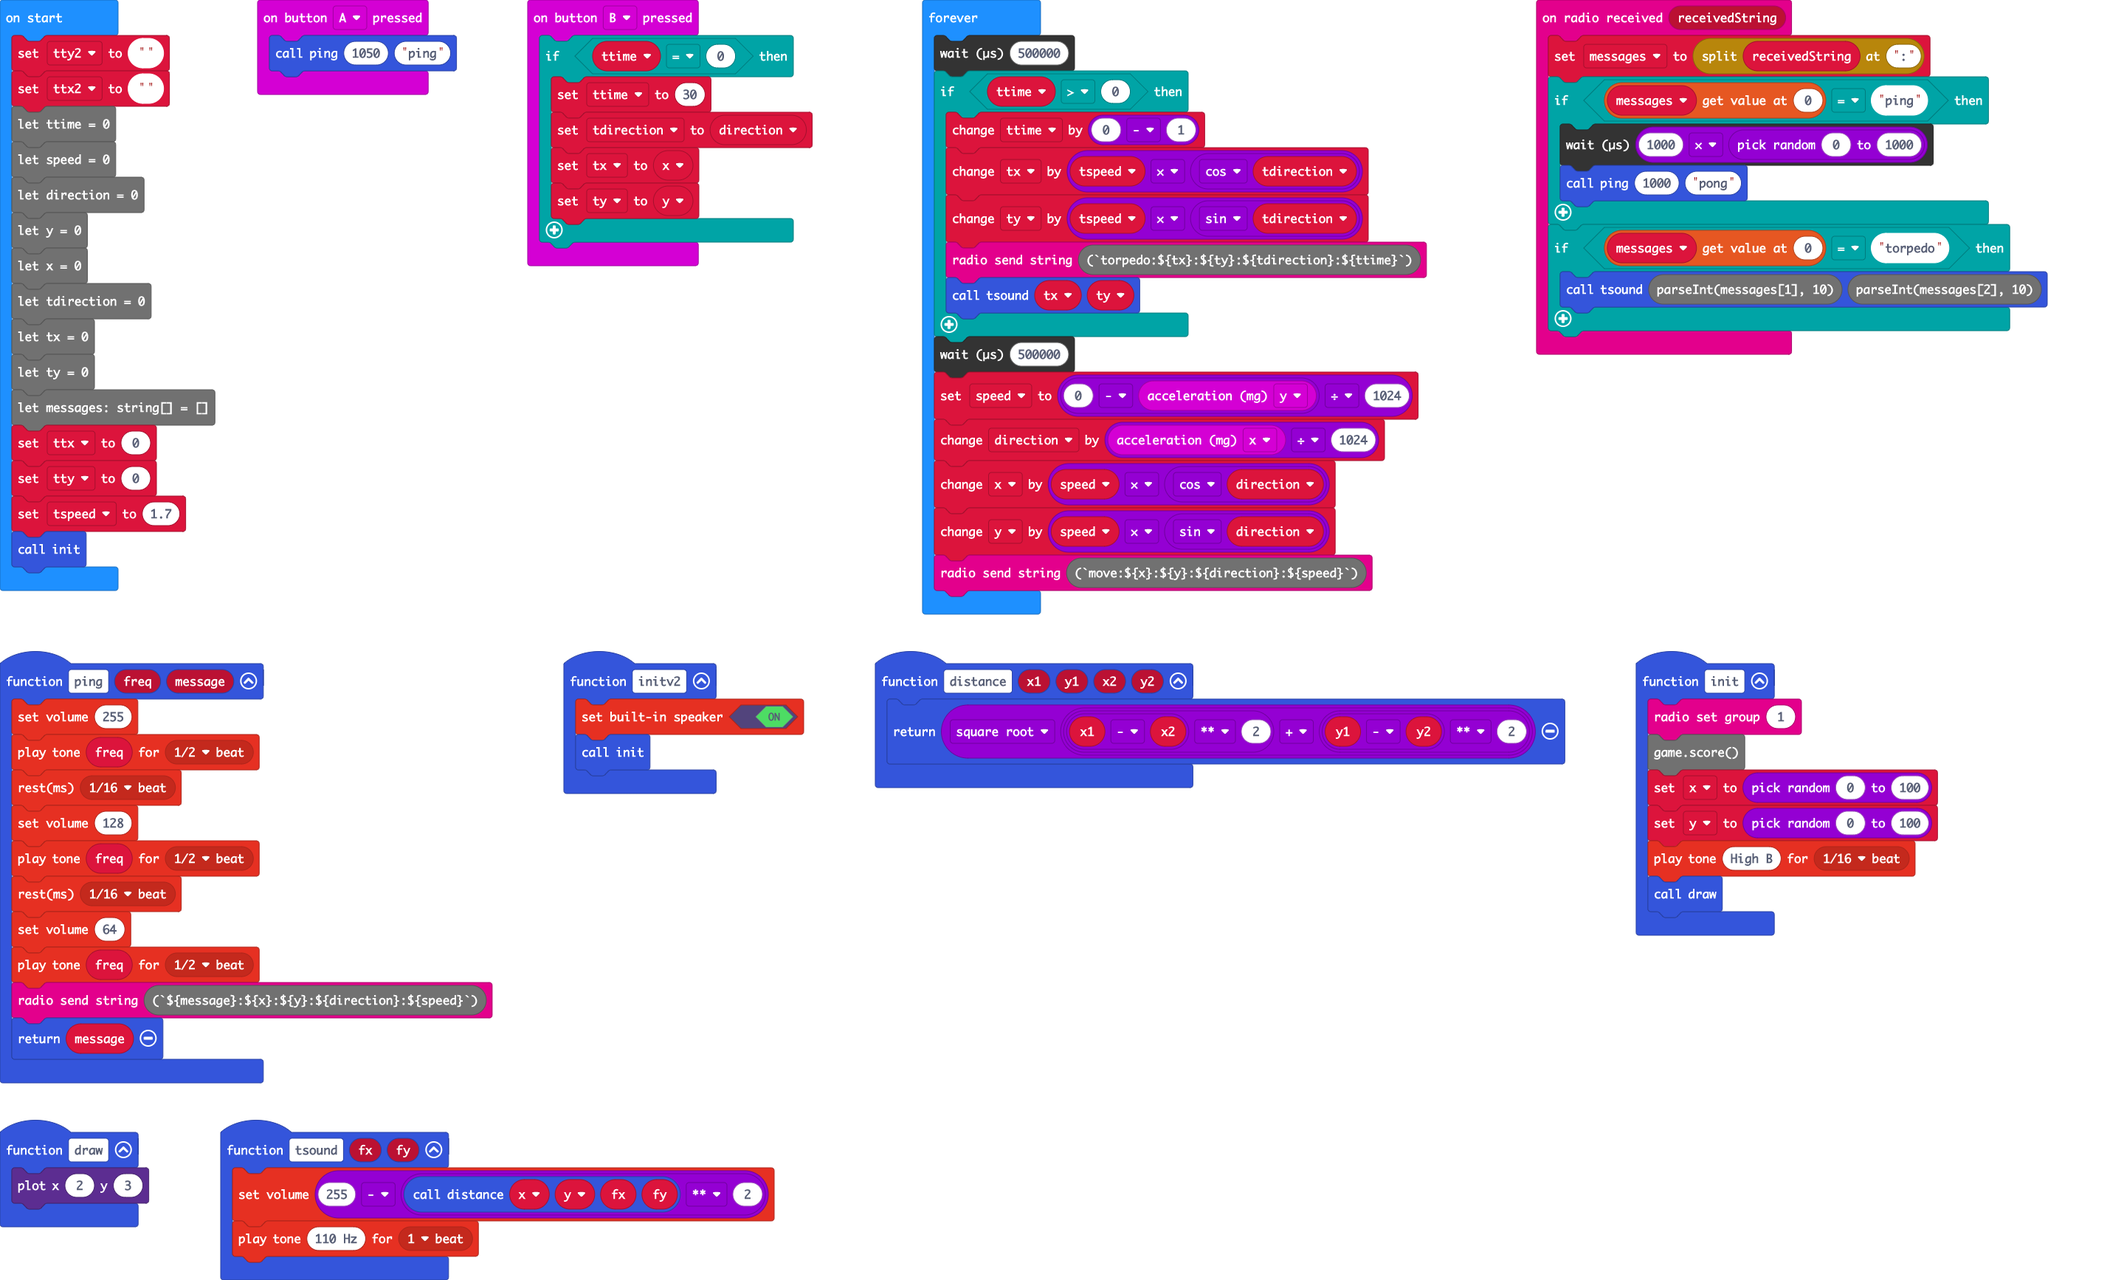
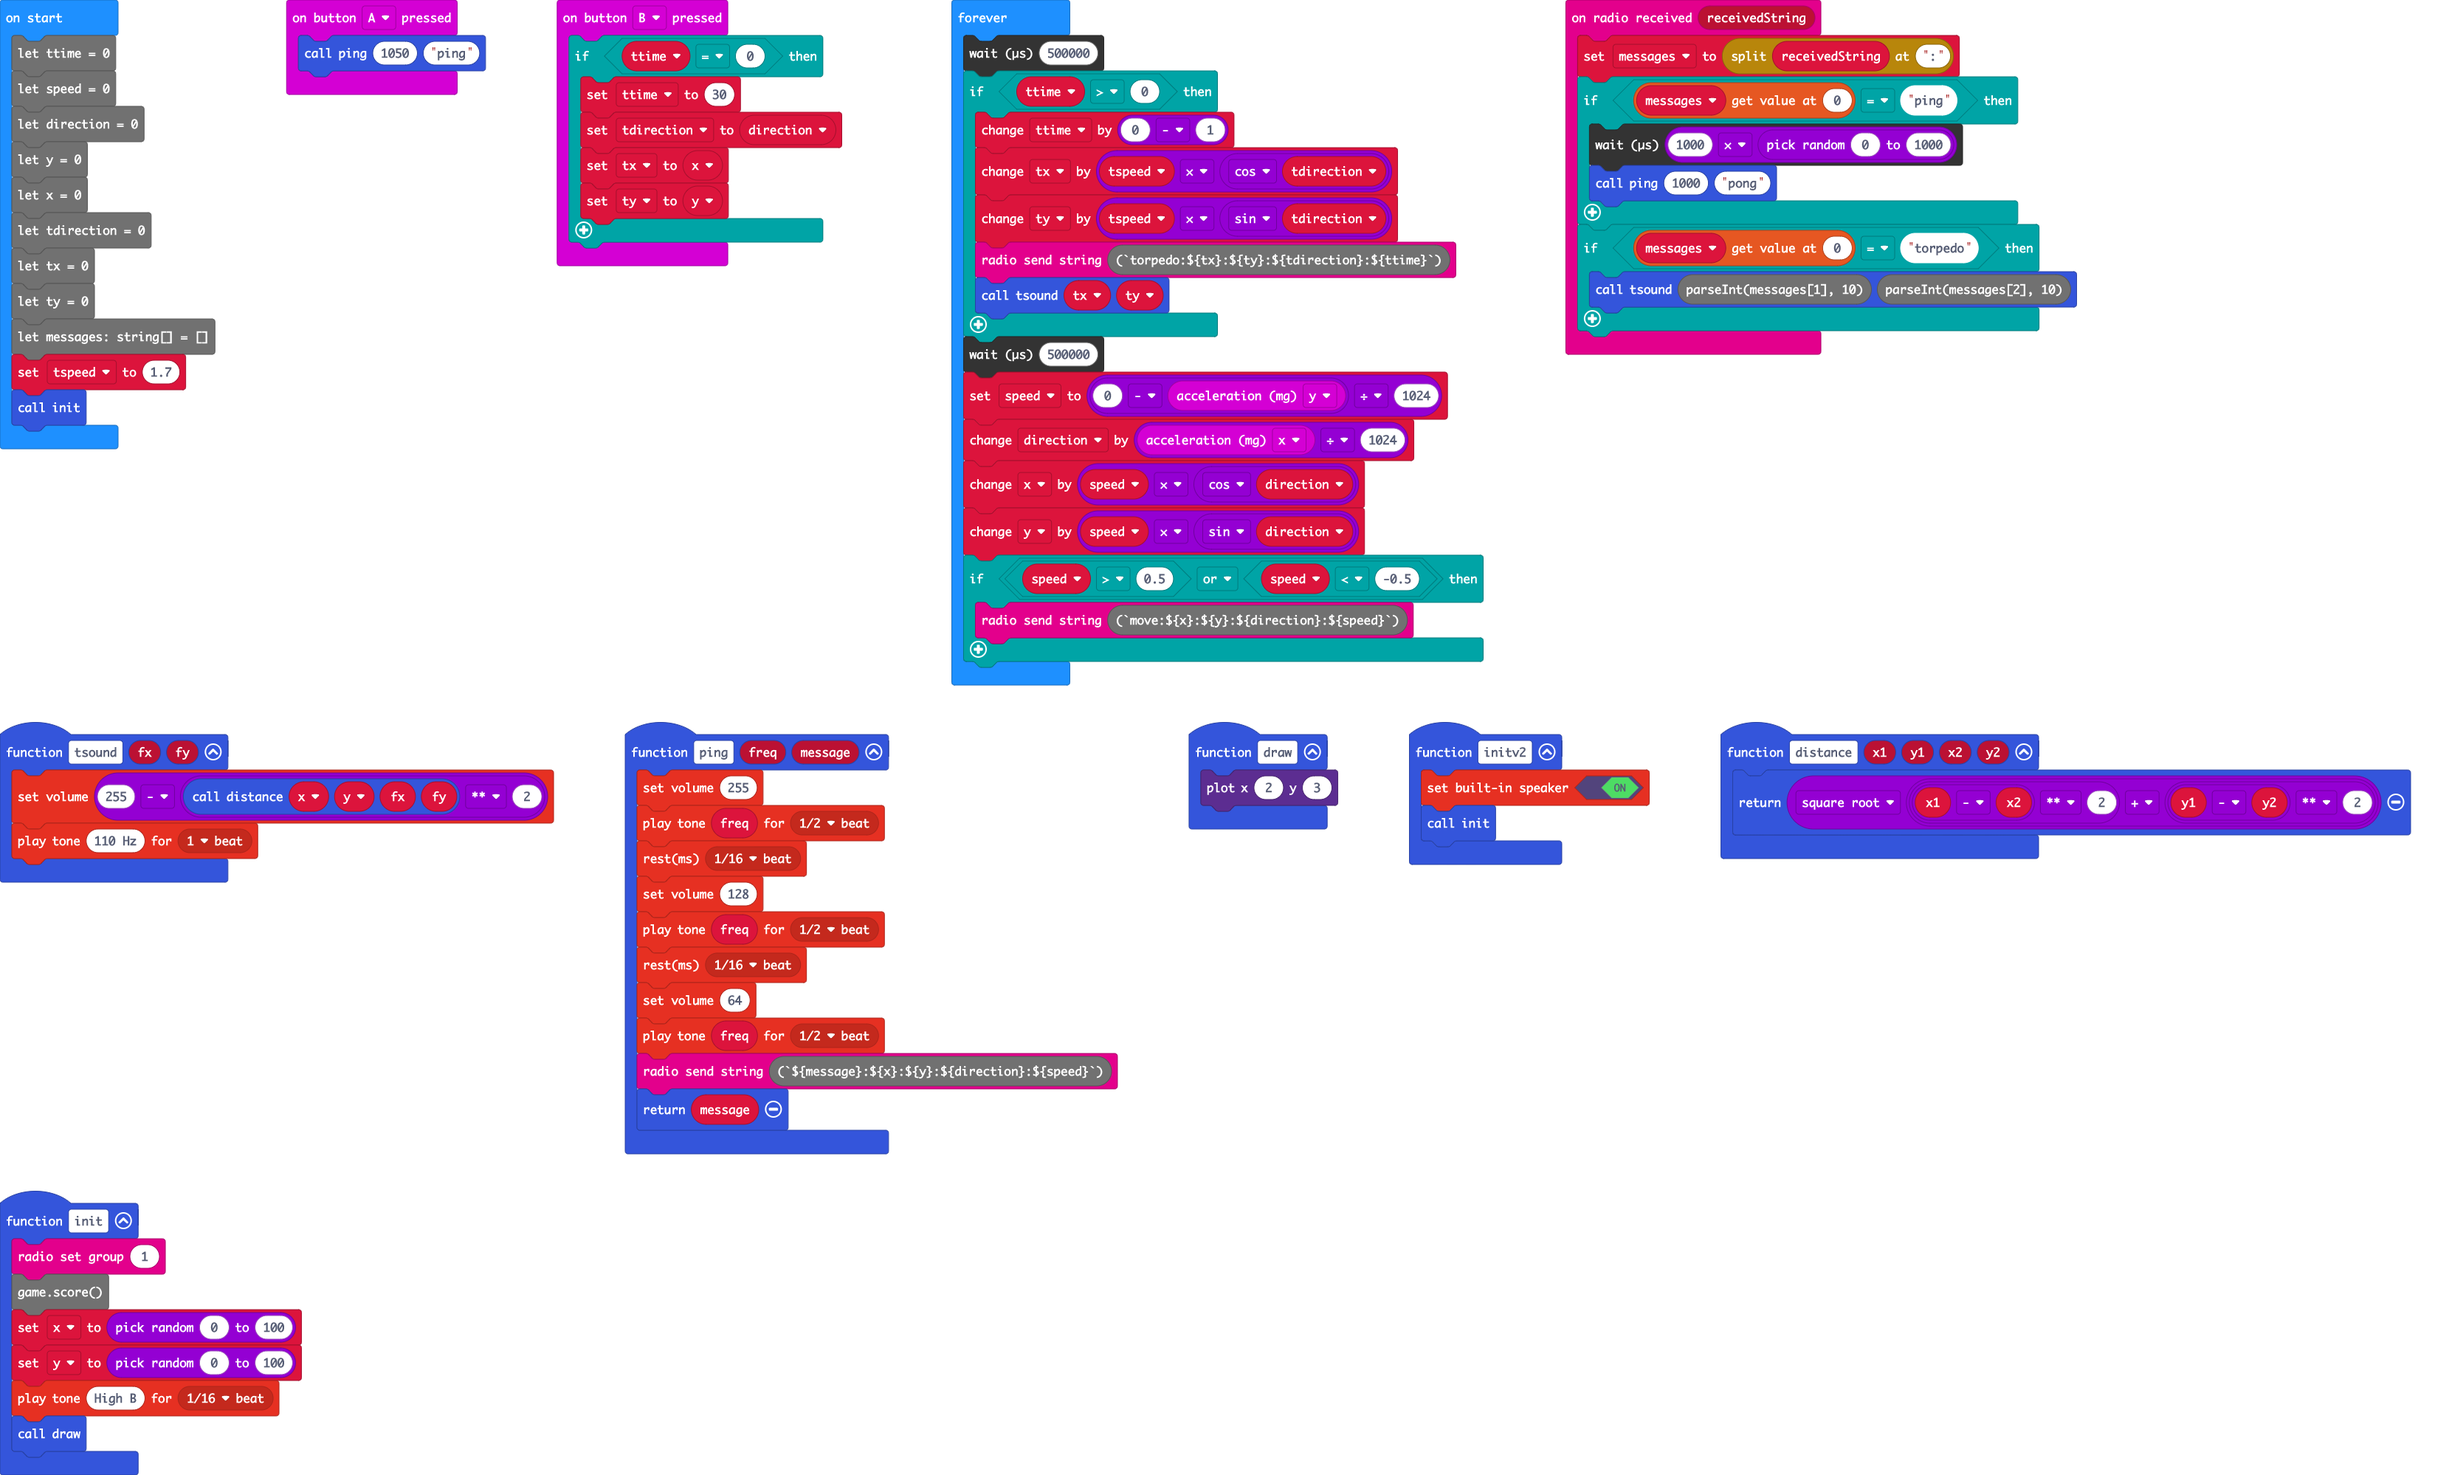
avoid sqrt and **2 in sequence

diff --git a/main.ts b/main.ts
@@ -1,5 +1,5 @@
 function tsound (fx: number, fy: number) {
-    music.setVolume(255 - distance(x, y, fx, fy) ** 2)
+    music.setVolume(255 - quieting(x, y, fx, fy))
     music.playTone(110, music.beat(BeatFraction.Whole))
 }
 function ping (freq: number, message: string) {
@@ -32,8 +32,8 @@ x = randint(0, 100)
     music.playTone(988, music.beat(BeatFraction.Sixteenth))
     draw()
 }
-function distance (x1: number, y1: number, x2: number, y2: number) {
-    return Math.sqrt((x1 - x2) ** 2 + (y1 - y2) ** 2)
+function quieting (x1: number, y1: number, x2: number, y2: number) {
+    return (x1 - x2) ** 2 + (y1 - y2) ** 2
 }
 radio.onReceivedString(function (receivedString) {
     messages = receivedString.split(":")
@@ -72,11 +72,15 @@ basic.forever(function () {
         ty += tspeed * Math.sin(tdirection)
         radio.sendString("" + (`torpedo:${tx}:${ty}:${tdirection}:${ttime}`))
         tsound(tx, ty)
+    } else {
+        control.waitMicros(200000)
     }
     control.waitMicros(500000)
     speed = (0 - input.acceleration(Dimension.Y)) / 1024
     direction += input.acceleration(Dimension.X) / 1024
     x += speed * Math.cos(direction)
     y += speed * Math.sin(direction)
-    radio.sendString("" + (`move:${x}:${y}:${direction}:${speed}`))
+    if (speed > 0.5 || speed < -0.5) {
+        radio.sendString("" + (`move:${x}:${y}:${direction}:${speed}`))
+    }
 })
